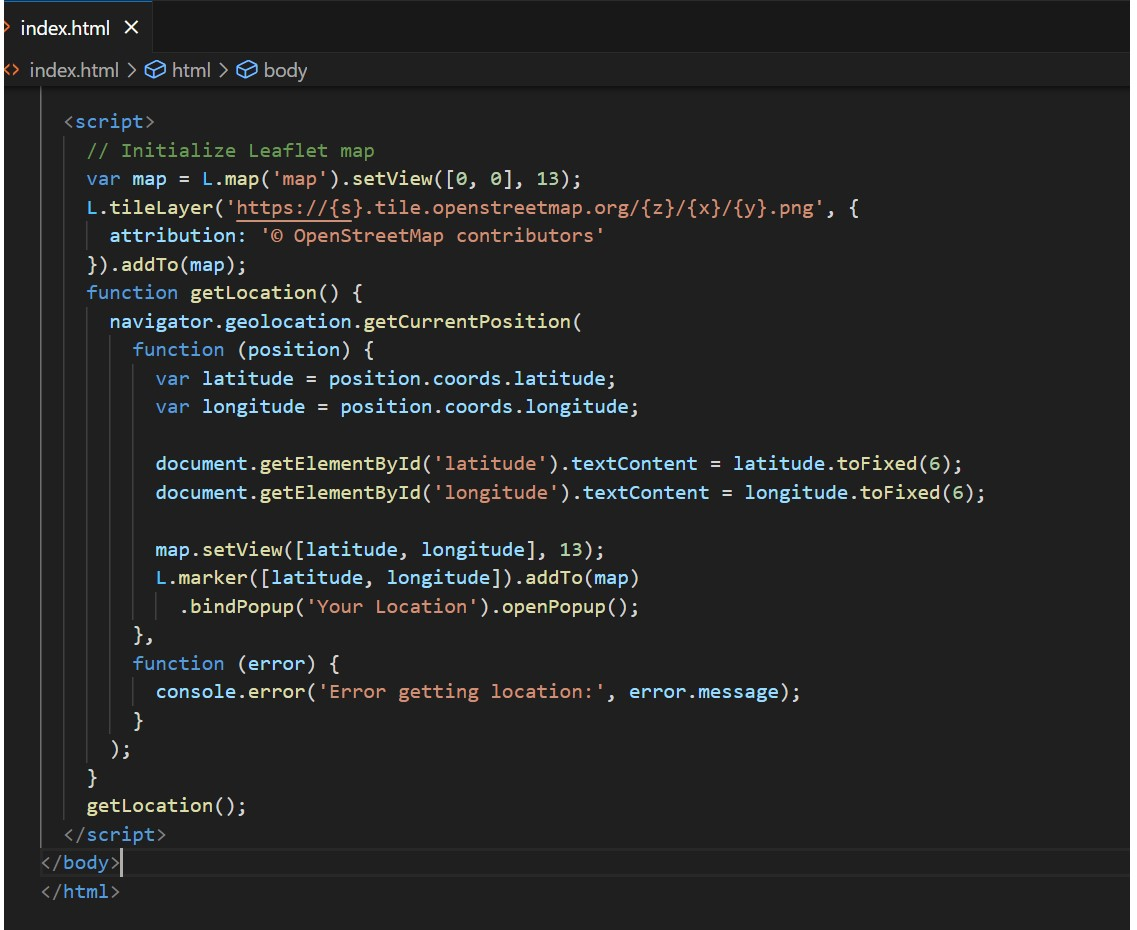
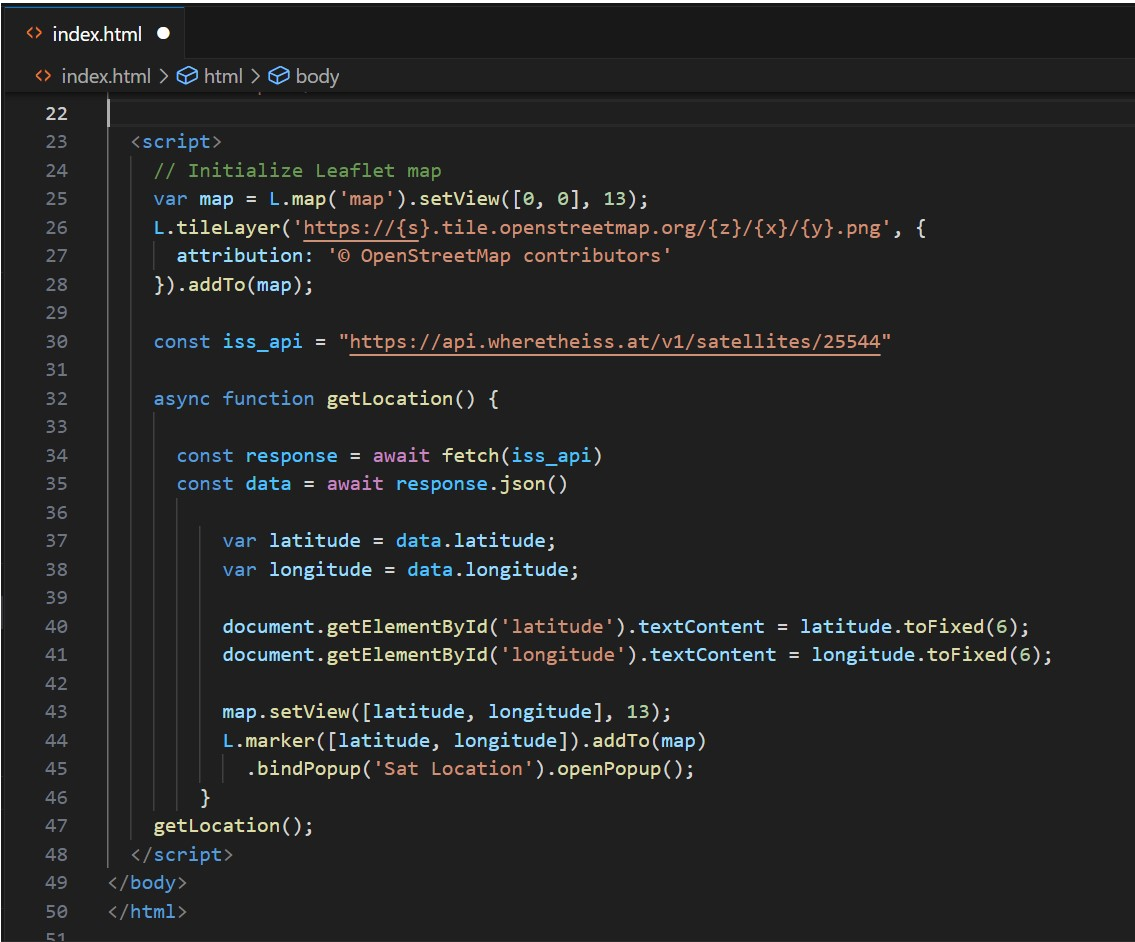
Add files via upload

Changed region(s): [[0.0, 0.0, 1.0, 1.0], [0.6476, 0.4677, 0.8634, 0.5613]]

diff --git a/index.html b/index.html
@@ -15,7 +15,7 @@
 <body>
 <h2>Group 2</h2>
 <h2>Dharini Vaghela -200533763 <br> Nancy Dungrani- 200530960</h2>
-  <h1>Current Location Map</h1>
+  <h1>Current Location of Sat </h1>
   <h3>Latitude: <span id="latitude"></span></h3>
   <h3>Longitude: <span id="longitude"></span></h3>
   <div id="map"></div>
@@ -26,24 +26,24 @@
     L.tileLayer('https://{s}.tile.openstreetmap.org/{z}/{x}/{y}.png', {
       attribution: '© OpenStreetMap contributors'
     }).addTo(map);
-    function getLocation() {
-      navigator.geolocation.getCurrentPosition(
-        function (position) {
-          var latitude = position.coords.latitude;
-          var longitude = position.coords.longitude;
+
+    const iss_api = "https://api.wheretheiss.at/v1/satellites/25544"
+
+    async function getLocation() {
+
+      const response = await fetch(iss_api)
+      const data = await response.json()
+
+          var latitude = data.latitude;
+          var longitude = data.longitude;
         
           document.getElementById('latitude').textContent = latitude.toFixed(6);
           document.getElementById('longitude').textContent = longitude.toFixed(6);
 
           map.setView([latitude, longitude], 13);
           L.marker([latitude, longitude]).addTo(map)
-            .bindPopup('Your Location').openPopup();
-        },
-        function (error) {
-          console.error('Error getting location:', error.message);
-        }
-      );
-    }
+            .bindPopup('Sat Location').openPopup();
+        } 
     getLocation();
   </script>
 </body>
